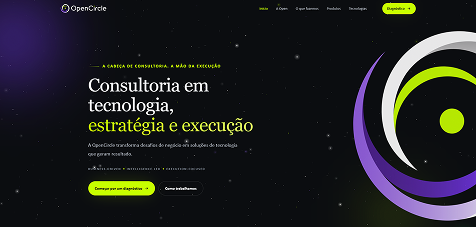
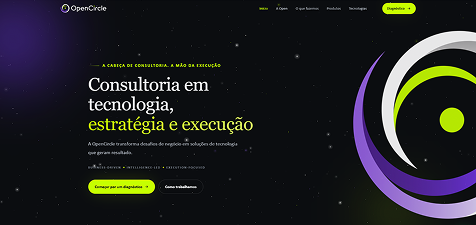
feat: responsive

diff --git a/src/App.tsx b/src/App.tsx
@@ -9,8 +9,8 @@ function App() {
   return (
     <div className="px-px bg-white/10 max-w-265.5 m-auto ">
       <Navigation />
-      <div className="text-white mt-px grid grid-cols-2 gap-px">
-        <section className="font-cal bg-black pt-5 pb-12 px-6 rounded-l-md">
+      <div className="text-white mt-px grid lg:grid-cols-2 grid-cols-1 gap-px">
+        <section className="font-cal bg-black pt-5 pb-12 px-6 rounded-md lg:rounded-r-none">
           <div className="pattern-stripes bg-black text-violet/40 rounded py-4 px-6">
             <h1 className="max-w-96 text-white text-4xl">
               Transformamos ideias em software de alto impacto
@@ -27,11 +27,11 @@ function App() {
             </Button>
           </div>
         </section>
-        <section className="font-cal text-4xl relative bg-black py-5 px-6 rounded-r-md">
+        <section className="font-cal text-4xl bg-black py-5 px-6 pb-28 lg:pb-5 rounded-md lg:rounded-l-none">
           <SlideHeader />
         </section>
       </div>
-      <section className="bg-black mt-px rounded relative px-6 py-24 flex justify-between">
+      <section className="bg-black mt-px rounded relative px-6 py-24 flex flex-col lg:flex-row justify-between">
         <div>
           <span className="text-gray/25 font-bold text-sm">_-__-_--</span>
           <h1 className=" text-white text-4xl mb-2 max-w-74.5">
@@ -44,8 +44,9 @@ function App() {
         </div>
         <CarrouselSlide />
       </section>
-      <section className="grid grid-cols-4 grid-rows-2  mt-px gap-px">
-        <div className="col-span-2 row-span-2 bg-black pl-6 flex flex-col justify-center">
+      <section className="grid grid-cols-1 md:grid-cols-2 lg:grid-cols-4 lg:grid-rows-2 mt-px gap-px">
+        <div className="col-span-1 md:col-span-2 lg:col-span-2 lg:row-span-2 bg-black p-6 lg:p-0 lg:pl-6 flex flex-col justify-center rounded-md lg:rounded-r-none">
+          <span className="text-gray/25 font-bold text-sm">_-__-_--</span>
           <h1 className="text-white text-4xl mb-4 max-w-86.5">
             Tecnologia que gera resultados reais
           </h1>
@@ -60,61 +61,64 @@ function App() {
             retorno do seu investimento.
           </p>
         </div>
-        <div className="col-span-1 row-span-1 bg-black relative flex flex-col group cursor-default overflow-hidden">
-          <div className="absolute z-50 top-0 left-0 w-full h-full bg-linear-to-r from-black from-20% to-transparent pointer-events-none transition-all duration-500 ease-out group-hover:from-15%"></div>
-          <div className="px-2 py-3 pattern-stripes text-gray/10 transition-colors duration-500 ease-out group-hover:text-violet/20">
+        <div className="col-span-1 row-span-1 bg-black relative flex flex-col group cursor-default overflow-hidden rounded-md md:rounded-r-none lg:rounded-none">
+          <div className="absolute z-50 top-0 left-0 w-full h-full bg-linear-to-r from-black from-15% md:from-20% pointer-events-none transition-all duration-500 ease-out md:group-hover:from-15%"></div>
+          <div className="px-2 py-3 flex-1 pattern-stripes text-violet/20 md:text-gray/10 transition-colors duration-500 ease-out md:group-hover:text-violet/20">
             <h2 className="text-3xl text-white relative z-50">
               Arquitetura Moderna
             </h2>
-            <p className="text-sm text-gray max-w-55 relative z-50 opacity-0 -translate-x-4 transition-all duration-500 ease-out group-hover:translate-x-0 group-hover:opacity-100">
+            <p className="text-sm text-gray max-w-55 relative z-50 opacity-100 translate-x-0 md:opacity-0 md:-translate-x-4 transition-all duration-500 ease-out md:group-hover:translate-x-0 md:group-hover:opacity-100">
               Foco em ecossistemas robustos com as melhores ferramentas do
               mercado.
             </p>
           </div>
-          <div className="flex justify-between px-4 py-1.5 border-t border-gray/15 mt-1.5 text-gray/15 transition-colors duration-500 ease-out group-hover:border-gray/50 group-hover:text-gray/50">
+          <div className="flex justify-between px-4 py-1.5 border-t mt-1.5 transition-colors duration-500 ease-out border-gray/50 text-gray/50 md:border-gray/15 md:text-gray/15 md:group-hover:border-gray/50 md:group-hover:text-gray/50">
             <span className="relative z-50">_-__-_--</span>
             <span>//</span>
           </div>
         </div>
-        <div className="col-span-1 row-span-1 bg-black relative flex flex-col group cursor-default overflow-hidden rounded-r-lg">
-          <div className="absolute z-50 top-0 left-0 w-full h-full bg-linear-to-l from-black from-20% to-transparent pointer-events-none transition-all duration-500 ease-out group-hover:from-15%"></div>
-          <div className="px-2 py-3 flex-1 pattern-stripes text-gray/10 transition-colors duration-500 ease-out group-hover:text-violet/20">
+
+        <div className="col-span-1 row-span-1 bg-black relative flex flex-col group cursor-default overflow-hidden rounded-md md:rounded-l-none">
+          <div className="absolute z-50 top-0 left-0 w-full h-full bg-linear-to-l from-black from-15% md:from-20% pointer-events-none transition-all duration-500 ease-out md:group-hover:from-15%"></div>
+          <div className="px-2 py-3 flex-1 pattern-stripes text-violet/20 md:text-gray/10 transition-colors duration-500 ease-out md:group-hover:text-violet/20">
             <h2 className="text-3xl text-white relative z-50">Performance</h2>
-            <p className="text-sm text-gray max-w-55 relative z-50 opacity-0 -translate-x-4 transition-all duration-500 ease-out group-hover:translate-x-0 group-hover:opacity-100">
+            <p className="text-sm text-gray max-w-55 relative z-50 opacity-100 translate-x-0 md:opacity-0 md:-translate-x-4 transition-all duration-500 ease-out md:group-hover:translate-x-0 md:group-hover:opacity-100">
               Produtos otimizados para carregar rápido e reter usuários.
             </p>
           </div>
-          <div className="flex justify-between px-4 py-1.5 border-t border-gray/15 mt-1.5 text-gray/15 transition-colors duration-500 ease-out group-hover:border-gray/50 group-hover:text-gray/50">
+          <div className="flex justify-between px-4 py-1.5 border-t mt-1.5 transition-colors duration-500 ease-out border-gray/50 text-gray/50 md:border-gray/15 md:text-gray/15 md:group-hover:border-gray/50 md:group-hover:text-gray/50">
             <span>//</span>
             <span className="z-50 relative">_-__-_--</span>
           </div>
         </div>
-        <div className="col-span-1 row-span-1 bg-black relative flex flex-col group cursor-default overflow-hidden">
-          <div className="absolute z-50 top-0 left-0 w-full h-full bg-linear-to-r from-black from-20% to-transparent pointer-events-none transition-all duration-500 ease-out group-hover:from-15%"></div>
-          <div className="px-2 py-3 pattern-stripes text-gray/10 transition-colors duration-500 ease-out group-hover:text-violet/20">
+
+        <div className="col-span-1 row-span-1 bg-black relative flex flex-col group cursor-default overflow-hidden rounded-md md:rounded-r-none lg:rounded-none">
+          <div className="absolute z-50 top-0 left-0 w-full h-full bg-linear-to-r from-black from-15% md:from-20% pointer-events-none transition-all duration-500 ease-out md:group-hover:from-15%"></div>
+          <div className="px-2 py-3 flex-1 pattern-stripes text-violet/20 md:text-gray/10 transition-colors duration-500 ease-out md:group-hover:text-violet/20">
             <h2 className="text-3xl text-white relative z-50">
               Transparência Total
             </h2>
-            <p className="text-sm text-gray max-w-55 relative z-50 opacity-0 -translate-x-4 transition-all duration-500 ease-out group-hover:translate-x-0 group-hover:opacity-100">
+            <p className="text-sm text-gray max-w-55 relative z-50 opacity-100 translate-x-0 md:opacity-0 md:-translate-x-4 transition-all duration-500 ease-out md:group-hover:translate-x-0 md:group-hover:opacity-100">
               Acompanhamento de perto em cada etapa do desenvolvimento.
             </p>
           </div>
-          <div className="flex justify-between px-4 py-1.5 border-t border-gray/15 mt-1.5 text-gray/15 transition-colors duration-500 ease-out group-hover:border-gray/50 group-hover:text-gray/50">
+          <div className="flex justify-between px-4 py-1.5 border-t mt-1.5 transition-colors duration-500 ease-out border-gray/50 text-gray/50 md:border-gray/15 md:text-gray/15 md:group-hover:border-gray/50 md:group-hover:text-gray/50">
             <span className="relative z-50">_-__-_--</span>
             <span>//</span>
           </div>
         </div>
-        <div className="col-span-1 row-span-1 bg-black relative flex flex-col group cursor-default overflow-hidden rounded-r-lg">
-          <div className="absolute z-50 top-0 left-0 w-full h-full bg-linear-to-l from-black from-20% to-transparent pointer-events-none transition-all duration-500 ease-out group-hover:from-15%"></div>
-          <div className="px-2 py-3 flex-1 pattern-stripes text-gray/10 transition-colors duration-500 ease-out group-hover:text-violet/20">
+
+        <div className="col-span-1 row-span-1 bg-black relative flex flex-col group cursor-default overflow-hidden rounded-md md:rounded-l-none">
+          <div className="absolute z-50 top-0 left-0 w-full h-full bg-linear-to-l from-black from-15% md:from-20% pointer-events-none transition-all duration-500 ease-out md:group-hover:from-15%"></div>
+          <div className="px-2 py-3 flex-1 pattern-stripes text-violet/20 md:text-gray/10 transition-colors duration-500 ease-out md:group-hover:text-violet/20">
             <h2 className="text-3xl text-white relative z-50">
               Escalabilidade e Código Limpo
             </h2>
-            <p className="text-sm text-gray max-w-55 relative z-50 opacity-0 -translate-x-4 transition-all duration-500 ease-out group-hover:translate-x-0 group-hover:opacity-100">
+            <p className="text-sm text-gray max-w-55 relative z-50 opacity-100 translate-x-0 md:opacity-0 md:-translate-x-4 transition-all duration-500 ease-out md:group-hover:translate-x-0 md:group-hover:opacity-100">
               Sistemas preparados para crescer junto com a sua empresa.
             </p>
           </div>
-          <div className="flex justify-between px-4 py-1.5 border-t border-gray/15 mt-1.5 text-gray/15 transition-colors duration-500 ease-out group-hover:border-gray/50 group-hover:text-gray/50">
+          <div className="flex justify-between px-4 py-1.5 border-t mt-1.5 transition-colors duration-500 ease-out border-gray/50 text-gray/50 md:border-gray/15 md:text-gray/15 md:group-hover:border-gray/50 md:group-hover:text-gray/50">
             <span>//</span>
             <span className="z-50 relative">_-__-_--</span>
           </div>
@@ -139,7 +143,7 @@ function App() {
           <span>///</span>
           <span className="z-50 relative">_-__-_--</span>
         </div>
-        <div className="flex justify-between">
+        <div className="flex flex-col md:flex-row justify-between">
           <div className="">
             <img src={Logo} alt="Logo" />
             <p className="text-gray text-sm max-w-88 mt-2">
@@ -148,11 +152,11 @@ function App() {
             </p>
           </div>
           <div>
-            <h2 className="text-3xl text-right">Contato</h2>
-            <ul className="flex flex-col items-end">
+            <h2 className="text-3xl mt-6 lg:mt-0 text-left">Contato</h2>
+            <ul className="flex flex-col items-start md:items-end">
               <li className="pattern-stripes rounded mt-3 hover:text-violet/50 group text-gray/15 p-0.5 m-0">
                 <a
-                  className="bg-black rounded flex gap-2 items-center text-gray/60 group-hover:text-gray px-2 py-1"
+                  className="bg-black rounded flex gap-2 text-gray/60 group-hover:text-gray px-2 py-1"
                   href=""
                 >
                   <svg
@@ -198,7 +202,7 @@ function App() {
           <p className="text-gray text-sm">
             LD Forgetech © 2026 - Alguns direitos reservados.
           </p>
-          <p className="text-gray text-sm">///</p>
+          <p className="text-gray text-sm hidden md:block">///</p>
         </div>
       </footer>
     </div>

diff --git a/src/components/slide.tsx b/src/components/slide.tsx
@@ -48,15 +48,15 @@ export default function SlideHeader() {
 
     switch (posicaoRelativa) {
       case 0:
-        return "z-40 scale-100 translate-y-0 opacity-100";
+        return "z-40 scale-100 translate-y-0 opacity-100 inline-block";
       case 1:
-        return "z-30 scale-95 -translate-y-4 opacity-100";
+        return "z-30 scale-95 -translate-y-4 opacity-100 absolute";
       case 2:
-        return "z-20 scale-90 -translate-y-8 opacity-100";
+        return "z-20 scale-90 -translate-y-8 opacity-100 absolute";
       case 3:
-        return "z-40 scale-100 translate-y-0 opacity-0";
+        return "z-40 scale-100 translate-y-0 opacity-0 absolute";
       default:
-        return " hidden";
+        return "hidden";
     }
   }
 
@@ -64,7 +64,7 @@ export default function SlideHeader() {
     <>
       <div>
         <div className="text-gray/25 text-sm font-bold flex justify-between items-center mb-10">
-          <div>
+          <div className="select-none">
             {listaDeImagens.map((_, i) => (
               <span
                 key={i}
@@ -76,42 +76,41 @@ export default function SlideHeader() {
           </div>
           <span>_-__-_--</span>
         </div>
-
         <div
-          className="relative z-50 flex flex-col gap-4 cursor-pointer "
+          className="relative z-50 flex items-center  flex-col gap-4 mt-12 cursor-pointer"
           onClick={handleClick}
         >
           {listaDeImagens.map((imagemSrc, index) => {
             return (
               <img
                 key={index}
-                className={`m-auto rounded transition-all bg-black absolute duration-500 ${getEstiloRotativo(index)}`}
+                className={`m-auto  rounded transition-all bg-black duration-500 ${getEstiloRotativo(index)}`}
                 src={imagemSrc.path}
                 alt={`Imagem ${index + 1}`}
               />
             );
           })}
-        </div>
-      </div>
-      <div
-        onClick={handleClick}
-        className="absolute cursor-pointer w-full right-0 pl-6 py-4 pt-28 bottom-0 z-50 rounded bg-linear-to-t from-black from-50% to-transparent"
-      >
-        <div className="flex flex-col " key={imagemAtivaIndex}>
-          <h3 className="text-lg cursor-text animate-[slideRight_0.3s_ease-out]">
-            {listaDeImagens[imagemAtivaIndex].name}
-          </h3>
-          <p className="text-base text-gray mb-1 cursor-text animate-[slideRight_0.4s_ease-out]">
-            {listaDeImagens[imagemAtivaIndex].desc}
-          </p>
-          <a
-            target="_blank"
-            href={listaDeImagens[imagemAtivaIndex].url}
-            className="text-sm leading-none hover:no-underline underline animate-[slideRight_0.5s_ease-out] flex items-center gap-2"
+          <div
+            onClick={handleClick}
+            className="absolute cursor-pointer w-full  pl-6 py-2 pt-20 -bottom-16 z-50 rounded bg-linear-to-t from-black from-50% to-transparent"
           >
-            <MoveRight size={16} />{" "}
-            {listaDeImagens[imagemAtivaIndex].url.slice(8)}
-          </a>
+            <div className="flex flex-col " key={imagemAtivaIndex}>
+              <h3 className="text-lg cursor-text animate-[slideRight_0.3s_ease-out]">
+                {listaDeImagens[imagemAtivaIndex].name}
+              </h3>
+              <p className="text-base text-gray mb-1 cursor-text animate-[slideRight_0.4s_ease-out]">
+                {listaDeImagens[imagemAtivaIndex].desc}
+              </p>
+              <a
+                target="_blank"
+                href={listaDeImagens[imagemAtivaIndex].url}
+                className="text-sm leading-none hover:no-underline underline animate-[slideRight_0.5s_ease-out] flex items-center gap-2"
+              >
+                <MoveRight size={16} />{" "}
+                {listaDeImagens[imagemAtivaIndex].url.slice(8)}
+              </a>
+            </div>
+          </div>
         </div>
       </div>
     </>

diff --git a/src/components/carrousel-slide.tsx b/src/components/carrousel-slide.tsx
@@ -6,7 +6,6 @@ import imgSite from "../assets/carrousel/site.png";
 
 export default function CarrouselSlide() {
   const listaDeImagens = [imgAppWeb, imgEcommerce, imgPortfolio, imgSite];
-
   const [imagemAtivaIndex, setImagemAtivaIndex] = useState(0);
 
   function handleClick() {
@@ -22,15 +21,16 @@ export default function CarrouselSlide() {
 
     switch (posicaoRelativa) {
       case 0:
-        return "absolute top-0 translate-x-12 z-10 scale-90 opacity-60";
+        return "absolute lg:top-0 -top-3 lg:translate-x-[10%] translate-x-[8%] z-10 lg:scale-90 scale-80 opacity-60";
       case 1:
-        return "relative  translate-x-0 scale-100 z-50";
+        return "relative translate-x-0 scale-100 z-50";
       case 2:
-        return "absolute top-0 -translate-x-12 z-10 scale-90 opacity-60";
+        return "absolute lg:top-0 -top-3 lg:-translate-x-[10%] -translate-x-[8%] z-10 lg:scale-90 scale-80 opacity-60";
+      // return "absolute lg:top-0 -top-3 lg:-translate-x-[10%] -translate-x-[8%] z-10 lg:scale-90 scale-80 opacity-60";
       case 3:
-        return "absolute top-0 -translate-x-12 z-10 scale-80 opacity-40";
+        return "absolute top-0 translate-x-0 z-10 scale-50 opacity-0";
       default:
-        return "opacity-0 hidden";
+        return "hidden";
     }
   }
 
@@ -38,22 +38,22 @@ export default function CarrouselSlide() {
     <>
       <div>
         <div
-          className="pr-6 pl-6 cursor-pointer relative"
+          className="pr-6 pl-6 cursor-pointer relative flex justify-center mt-8"
           onClick={handleClick}
         >
           {listaDeImagens.map((imagemSrc, index) => {
             return (
               <img
                 key={index}
-                className={`m-auto rounded transition-all bg-black  duration-500 ${getEstiloRotativo(index)}`}
+                className={`rounded transition-all bg-black duration-500 ${getEstiloRotativo(index)}`}
                 src={imagemSrc}
                 alt={`Imagem ${index + 1}`}
               />
             );
           })}
         </div>
-        <div>
-          <div className="mt-2 text-gray/35 text-center cursor-pointer">
+        <div onClick={handleClick}>
+          <div className="mt-2 text-gray/35 text-center cursor-pointer select-none">
             {listaDeImagens.map((_, i) => (
               <span
                 key={i}

diff --git a/src/index.css b/src/index.css
@@ -8,7 +8,8 @@
   --color-black: var(--black);
   --color-white: var(--white);
 
-  --radius: 6px;
+  --radius-md: 8px;
+  --radius: 8px;
 
   --font-sans: "Lexend", sans-serif;
   --font-mono: "Cascadia Code", monospace;
